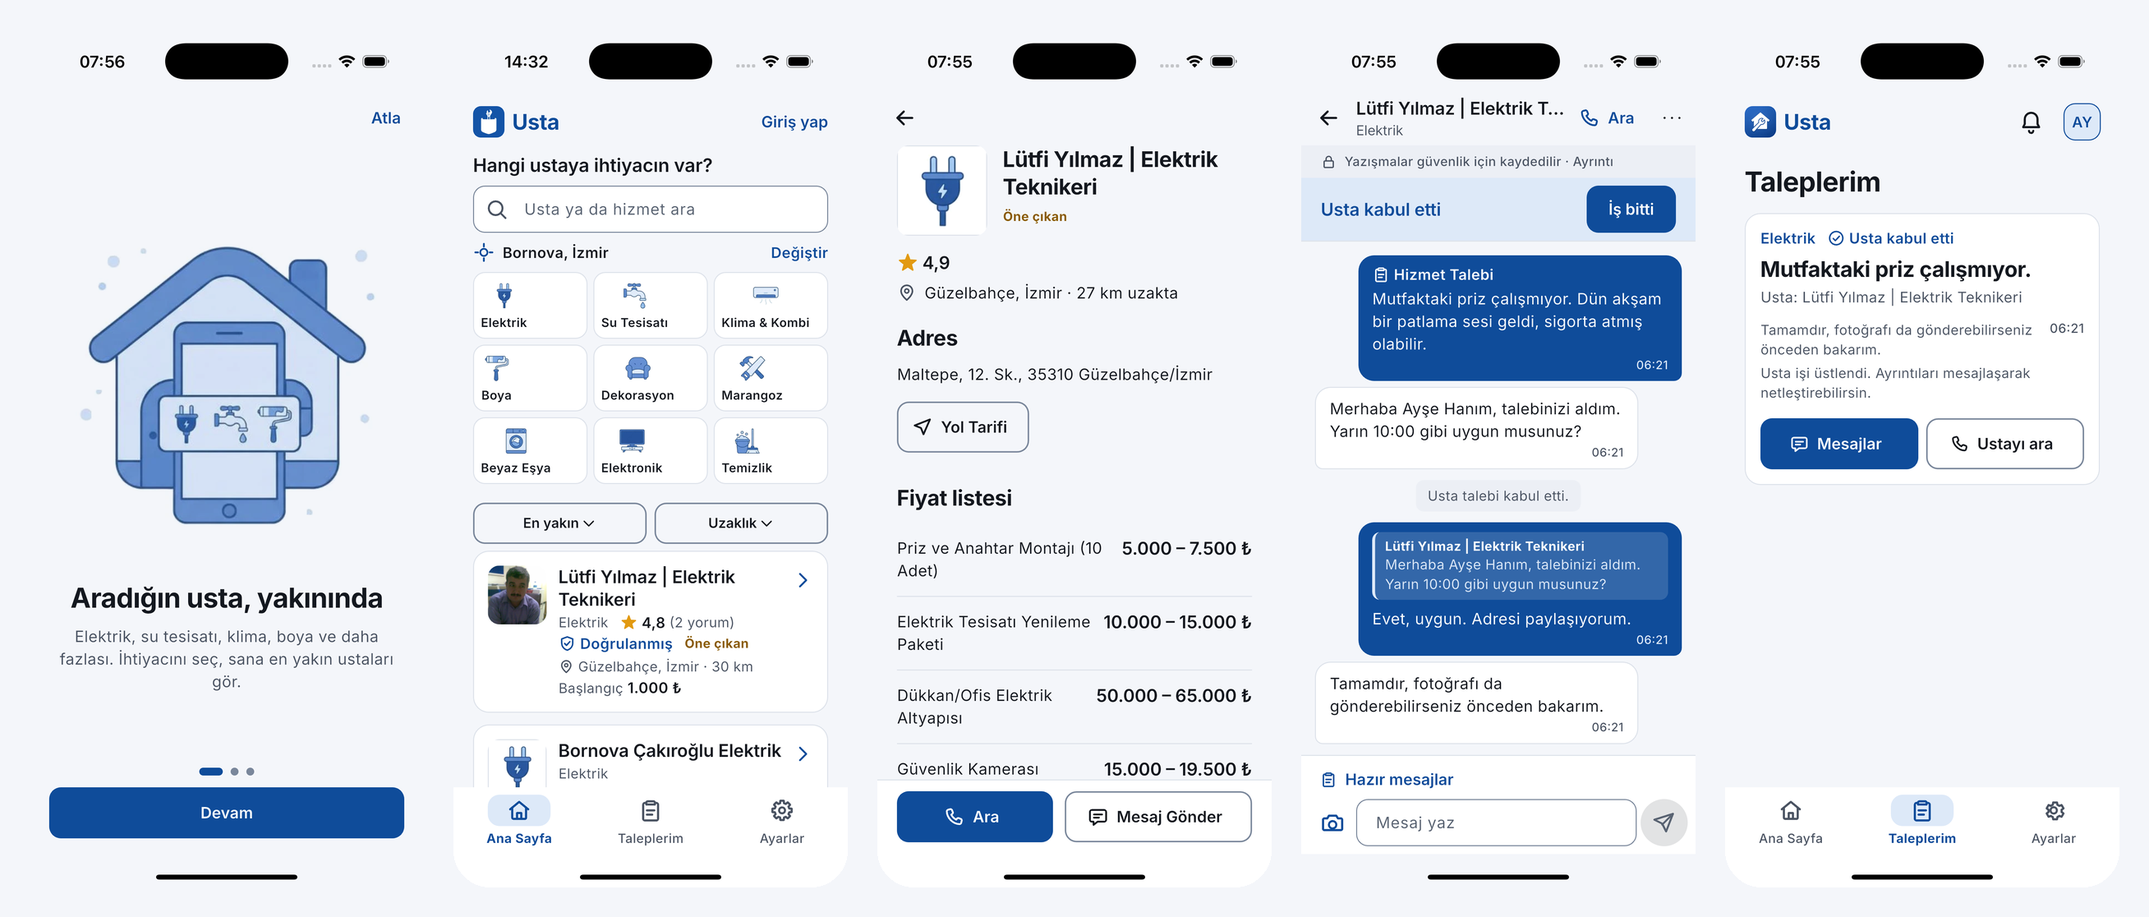
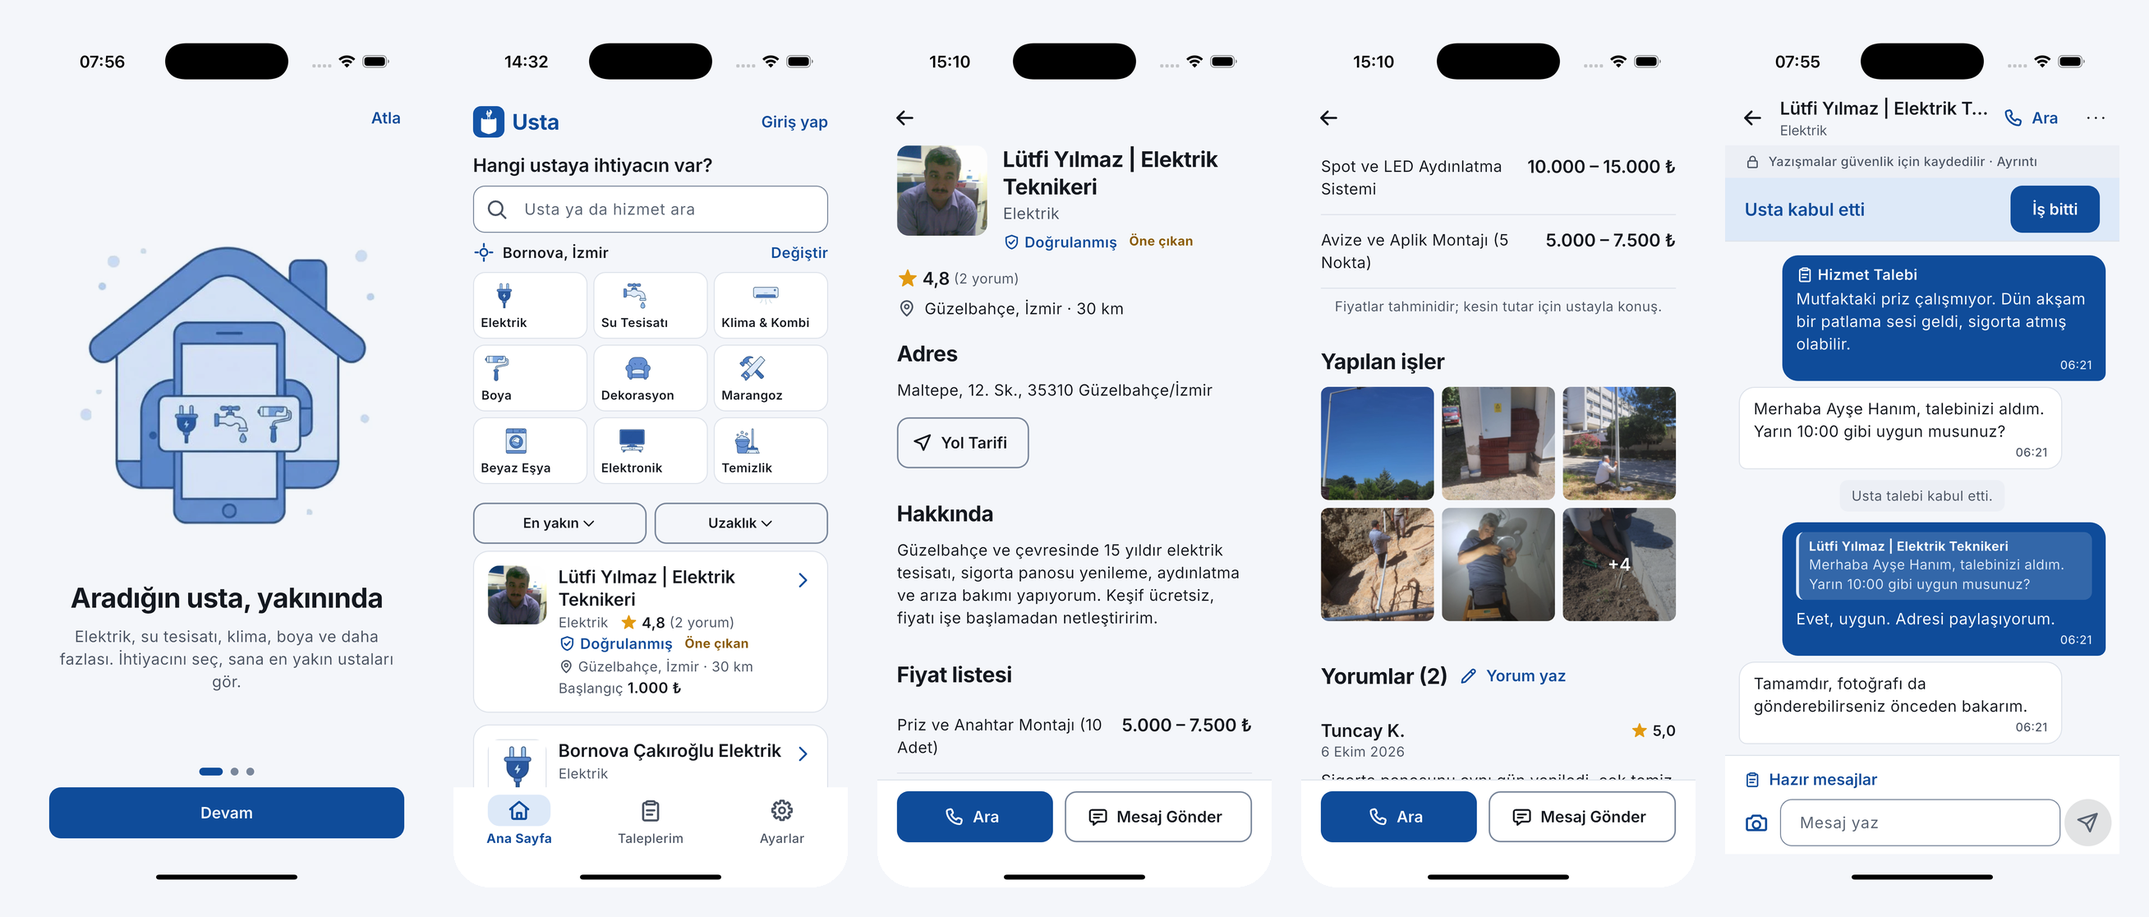
README: real Lutfi photos and work photos, no payment story, roadmap section renamed
- Refresh screenshots (real profile and work photos, dark welcome/home, usta panel and page)
- Remove payment/plan content from README, release notes and store listing
- Rename roadmap to 'Uygulama urune alinirsa eklenecekler'; drop warning emoji
- Small UI fixes: delete icon contrast in dark mode, shorter contact sheet captions

diff --git a/lib/features/provider/contact_sheet.dart b/lib/features/provider/contact_sheet.dart
@@ -86,7 +86,7 @@ class _ContactSheet extends ConsumerWidget {
                 ChoiceTile(
                   leading: UstaIcons.requests,
                   label: 'Uygulamadan yaz',
-                  caption: 'Hizmet talebi gönder, yazışma kayıt altında kalsın',
+                  caption: 'Talebin kayıt altında kalır',
                   selected: false,
                   onTap: writeInApp,
                 ),
@@ -94,7 +94,7 @@ class _ContactSheet extends ConsumerWidget {
                 ChoiceTile(
                   leading: UstaIcons.message,
                   label: 'WhatsApp’tan yaz',
-                  caption: 'WhatsApp açılır (uygulama dışında, kayıt tutulmaz)',
+                  caption: 'Uygulama dışında, kayıt tutulmaz',
                   selected: false,
                   onTap: () async {
                     navigator.pop();

diff --git a/lib/features/profile/profile_edit_screen.dart b/lib/features/profile/profile_edit_screen.dart
@@ -491,10 +491,10 @@ class _PhotoGrid extends StatelessWidget {
                               color: AppColors.scrim,
                               shape: BoxShape.circle,
                             ),
-                            child: UstaIcon(
+                            child: const UstaIcon(
                               UstaIcons.trash,
                               size: 18,
-                              color: AppColors.onPrimary,
+                              color: Color(0xFFFFFFFF),
                             ),
                           ),
                         ),

diff --git a/README.md b/README.md
@@ -24,7 +24,7 @@ Elektrik, su tesisatı, klima, boya, dekorasyon, marangoz, beyaz eşya, elektron
 
 1. [Neden Usta?](#neden-usta) · 2. [Kimin için?](#kimin-için) · 3. [Özellikler](#özellikler) · 4. [Usta hesabı](#usta-hesabı) · 5. [Ekranlar](#ekranlar)
 6. [HCI ilkeleri](#insanbilgisayar-etkileşimi-hci-ilkeleri) · 7. [Görsel tasarım dili](#görsel-tasarım-dili) · 8. [Yazılım mühendisliği ilkeleri](#yazılım-mühendisliği-ilkeleri)
-9. [Mimari](#mimari) · 10. [Güvenlik ve gizlilik](#güvenlik-ve-gizlilik) · 11. [Kalite güvencesi](#kalite-güvencesi) · 12. [Kurulum](#kurulum-ve-çalıştırma) · 13. [API](#api-özeti) · 14. [Yol haritası](#bilinen-sınırlar-ve-yol-haritası)
+9. [Mimari](#mimari) · 10. [Güvenlik ve gizlilik](#güvenlik-ve-gizlilik) · 11. [Kalite güvencesi](#kalite-güvencesi) · 12. [Kurulum](#kurulum-ve-çalıştırma) · 13. [API](#api-özeti) · 14. [Ürüne alınırsa eklenecekler](#uygulama-ürüne-alınırsa-eklenecekler)
 
 ---
 
@@ -46,7 +46,7 @@ Usta bulmak çoğu insan için hâlâ "bir tanıdığa sormak" demek. İlan site
 | Kullanıcı | İhtiyacı | Usta'nın cevabı |
 |---|---|---|
 | **Müşteri** (arıza, tadilat, temizlik) | Hızlı, güvenilir, yakın usta | Resimli hizmet seçimi, mesafeye göre sıralama, puan, fiyat listesi, adres, tek dokunuşla arama |
-| **Usta / esnaf** | Müşteri bulmak, işi takip etmek | Kendi iş paneli: gelen talepler, tek dokunuşla kabul, profil, fiyat listesi, fotoğraflar, "Öne çıkan" |
+| **Usta / esnaf** | Müşteri bulmak, işi takip etmek | Kendi iş paneli: gelen talepler, tek dokunuşla kabul, profil, fiyat listesi, fotoğraflar |
 | **50+ yaş, düşük teknoloji rahatlığı** | Büyük yazı, az adım, sade dil | Arayüz Boyutu (Normal / Büyük / Çok büyük), 3 sekme, büyük dokunma alanları |
 | **Gece / loş ortam** | Göz yormayan ekran | Açık, Koyu ya da telefon varsayılanı |
 
@@ -58,7 +58,7 @@ Usta bulmak çoğu insan için hâlâ "bir tanıdığa sormak" demek. İlan site
 
 **Mesajlaşma ve talepler** · İlk mesaj otomatik `Hizmet Talebi: …`; sağa kaydırarak yanıtla, kendi mesajını düzenle / sil, fotoğraf gönder, hazır mesajlar, "Usta kabul etti" / "İş bitti" durumları, okunmamış sayacı.
 
-**Hesap** · Sunucuda saklanan gerçek hesaplar: müşteri ya da usta olarak kayıt, e-posta veya telefonla giriş. (SMS / e-posta doğrulaması sonraki adım; bkz. [yol haritası](#bilinen-sınırlar-ve-yol-haritası).)
+**Hesap** · Sunucuda saklanan gerçek hesaplar: müşteri ya da usta olarak kayıt, e-posta veya telefonla giriş. (SMS / e-posta doğrulaması sonraki adım; bkz. [eklenecekler](#uygulama-ürüne-alınırsa-eklenecekler).)
 
 **Ayarlar** · Arayüz Boyutu, Görünüm (Açık / Koyu / Telefon varsayılanı), **Verilerimi indir**, hesabı sil, destek, rehber, güvenli iletişim, **Şikayet ve resmi başvurular** (e-Devlet Tüketici Hakem Heyeti, Ticaret Bakanlığı, ALO 175, 155), Kullanıcı Sözleşmesi, KVKK Aydınlatma Metni, Sorumluluk Reddi.
 
@@ -68,38 +68,26 @@ Usta olarak girince uygulama farklı bir yüz gösterir: müşteri araması yok,
 
 | Sekme | Ne yapar |
 |---|---|
-| **Panel** | Yeni talep / mesaj / puan özeti, yanıt bekleyenler (tek dokunuşla Kabul et), "Sayfanı tamamla" listesi, öne çıkma durumu |
+| **Panel** | Yeni talep / mesaj / puan özeti, yanıt bekleyenler (tek dokunuşla Kabul et), "Sayfanı tamamla" listesi, |
 | **Talepler** | Yeni · Devam eden · Biten gruplarında gelen kutusu, kabul / uygun değilim, sohbet, müşteriyi ara |
 | **Sayfam** | Profil fotoğrafı, iş fotoğrafları, tanıtım, hizmet bölgesi / adres, fiyat listesi, tamamlanma yüzdesi, "Müşteri gözüyle gör" |
 | **Ayarlar** | Boyut, görünüm, hesap, yasal metinler |
 
-<p align="center"><img src="docs/screenshots/usta-overview.png" alt="Usta paneli, Sayfam, Öne çık, koyu tema" width="860"></p>
-
-### Öne çıkan (ücretli yerleşim)
-
-Ustalar süreye göre aramalarda en üstte, "Öne çıkan" etiketiyle görünebilir; süre bitince normal sıraya dönerler. Plan uzadıkça günlük fiyat düşer:
-
-| Plan | Fiyat (KDV dahil) | Günlük |
-|---|---|---|
-| 1 hafta | 99 ₺ | 14,14 ₺ |
-| 1 ay | 249 ₺ | 8,30 ₺ |
-| 3 ay | 599 ₺ | 6,66 ₺ |
-
-Sunucu planları satar, çalışan promosyonun üstüne ekler ve satın alımı kaydeder (`PAYMENTS_MODE=test` iken ücret alınmaz ve uygulama bunu açıkça söyler; mağaza satın alma doğrulaması için bkz. [docs/RELEASE.md](docs/RELEASE.md)). Plan, iş ya da müşteri sayısı garantisi vermez; metinlerde de öyle yazar.
+<p align="center"><img src="docs/screenshots/usta-overview.png" alt="Usta paneli, Sayfam, koyu tema, yapılan işler" width="860"></p>
 
 ## Ekranlar
 
-| Karşılama | Ana sayfa | Usta sayfası | Sohbet |
+| Karşılama | Ana sayfa | Usta sayfası | Yapılan işler |
 |:---:|:---:|:---:|:---:|
-| <img src="docs/screenshots/welcome-choices.png" width="200"> | <img src="docs/screenshots/home.png" width="200"> | <img src="docs/screenshots/detail.png" width="200"> | <img src="docs/screenshots/chat.png" width="200"> |
+| <img src="docs/screenshots/welcome-choices.png" width="200"> | <img src="docs/screenshots/home.png" width="200"> | <img src="docs/screenshots/detail.png" width="200"> | <img src="docs/screenshots/detail-work.png" width="200"> |
 
-| Taleplerim | İletişim seçenekleri | Ayarlar | Resmi başvurular |
+| Sohbet | Taleplerim | İletişim seçenekleri | Ayarlar |
 |:---:|:---:|:---:|:---:|
-| <img src="docs/screenshots/requests.png" width="200"> | <img src="docs/screenshots/contact-options.png" width="200"> | <img src="docs/screenshots/settings.png" width="200"> | <img src="docs/screenshots/official.png" width="200"> |
+| <img src="docs/screenshots/chat.png" width="200"> | <img src="docs/screenshots/requests.png" width="200"> | <img src="docs/screenshots/contact-options.png" width="200"> | <img src="docs/screenshots/settings.png" width="200"> |
 
-| Koyu ana sayfa | Koyu sonuçlar | Usta paneli | Öne çık |
+| Koyu karşılama | Koyu ana sayfa | Usta paneli | Sayfam |
 |:---:|:---:|:---:|:---:|
-| <img src="docs/screenshots/home-dark.png" width="200"> | <img src="docs/screenshots/results-dark.png" width="200"> | <img src="docs/screenshots/usta-panel.png" width="200"> | <img src="docs/screenshots/promote.png" width="200"> |
+| <img src="docs/screenshots/welcome-dark.png" width="200"> | <img src="docs/screenshots/home-dark.png" width="200"> | <img src="docs/screenshots/usta-panel.png" width="200"> | <img src="docs/screenshots/usta-page.png" width="200"> |
 
 ## İnsan–bilgisayar etkileşimi (HCI) ilkeleri
 
@@ -114,7 +102,7 @@ Sunucu planları satar, çalışan promosyonun üstüne ekler ve satın alımı 
 | **Hata önleme ve kurtarma** (Nielsen) | Yanlış şifre, kullanılmış e-posta, konum izni yok, ağ yok: her biri ne olduğunu ve ne yapılacağını söyleyen Türkçe mesajla; ham hata ekrana basılmaz. |
 | **Sistemin durumunu göster** | İskelet yükleme kartları, okunmamış rozetleri, "Ustaya iletildi / Usta kabul etti" durum cümleleri, test modunda ücret alınmadığının açıkça yazılması. |
 | **Erişilebilirlik (WCAG AA)** | Kontrast testle doğrulanır (açık + koyu palet); `Semantics` etiketleri; sistem yazı boyutu × Usta Arayüz Boyutu birlikte ölçeklenir; 320 dp genişlikte 1,5× yazıyla taşma yok. |
-| **Dürüstlük** (karanlık desenlerden kaçınma) | Uydurma fiyat ya da sahte "doğrulandı" rozeti yok; "Öne çıkan" ücretli yerleşimdir ve öyle yazılır; yazışmaların kayıt altında olduğu sohbette hep görünür. |
+| **Dürüstlük** (karanlık desenlerden kaçınma) | Uydurma fiyat ya da sahte "doğrulandı" rozeti yok; yazışmaların kayıt altında olduğu sohbette hep görünür. |
 | **Gestalt: yakınlık ve hizalama** | Aynı bilgi aynı kartta, aynı kenar boşluğuyla; "Giriş yap" ve "Değiştir" aynı sağ kenarda biter; ayar açıklamaları tek satırdır. |
 | **Dil ve ton** | Sade, sıcak, "sen" dili; ek uyumu ve cümle düzeni gözden geçirildi; sayı ve para birimi Türkçe biçimde. |
 
@@ -131,7 +119,7 @@ Sunucu planları satar, çalışan promosyonun üstüne ekler ve satın alımı 
 
 - **Katmanlı mimari, tek yönlü veri akışı.** `UI → controller (Riverpod) → repository → data source → API`. Widget'lar ağı ya da depoyu bilmez.
 - **SOLID.** Tek sorumluluk (ekran / denetleyici / depo ayrı), bağımlılığı tersine çevirme (konum, yer adı, depolama arayüzlerle enjekte edilir), açık–kapalı (yeni hizmet = `kServices`'e bir satır).
-- **DRY ve tek doğruluk kaynağı.** Renk, boşluk, tipografi, ikon, hizmet listesi, plan listesi tek yerde.
+- **DRY ve tek doğruluk kaynağı.** Renk, boşluk, tipografi, ikon ve hizmet listesi tek yerde.
 - **Değiştirilebilir altyapı.** Sunucuda `Store<T>` arayüzü (`MemoryStore` / `MongoStore`); `DATA_SOURCE=mock|mongo` ile veritabanı olmadan da çalışır.
 - **Güvenli varsayılanlar.** Sunucu tarafı kimlik doğrulama ve yetkilendirme guard'ı, sınırlandırılmış giriş denemesi, sırlar yalnızca ortam değişkenlerinde (twelve-factor).
 - **Hata yönetimi.** Her hata `AppFailure` ile kullanıcıya anlaşılır Türkçe mesaj olur.
@@ -146,7 +134,7 @@ Sunucu planları satar, çalışan promosyonun üstüne ekler ve satın alımı 
 │ Flutter (iOS / Android)  │ ─────────────────▶ │ NestJS modüler monolit       │ ─▶ │ MongoDB Atlas   │
 │ Riverpod · go_router     │                    │ auth · accounts · providers  │    │ usta_db         │
 │ Dio · SharedPreferences  │ ◀───────────────── │ orders · conversations       │    │ (veya bellek)   │
-└──────────────────────────┘                    │ promotions · complaints …    │    └─────────────────┘
+└──────────────────────────┘                    │ complaints · privacy …       │    └─────────────────┘
                                                 └──────────────────────────────┘
 ```
 
@@ -161,15 +149,15 @@ Sunucu planları satar, çalışan promosyonun üstüne ekler ve satın alımı 
 - **Veri hakları:** **Verilerimi indir** (hesap, talep, mesaj, şikayet) ve **Hesabımı sil** (kimlik kaldırılır, kayıtlar kimliksiz saklanır).
 - **Şikayet:** Nedenli, takip numaralı şikayet; ardından resmi merciler.
 - **Sorumluluk reddi:** Platform işin yapılması, ödeme ve anlaşmazlıklarda taraf değildir.
-- ⚠ Hukuki metinler **taslaktır**; yayından önce bir avukat incelemelidir.
+- Hukuki metinler taslaktır; yayından önce bir avukat incelemelidir.
 
 ## Kalite güvencesi
 
 | Katman | Kapsam | Sonuç |
 |---|---|---|
-| Flutter birim / bileşen / duman | **111 test**: doğrulayıcılar, mesafe, hizmet eşleştirme, fiyat kuralları, modeller, oturum ve kayıt akışı, keşif, ilk ekranda iki usta, 3–4 sekme, Arayüz Boyutu, **koyu tema canlı geçişi**, usta paneli ve plan satın alma, kendi sayfa kuralları, usta kaydında konum | ✅ |
+| Flutter birim / bileşen / duman | **111 test**: doğrulayıcılar, mesafe, hizmet eşleştirme, fiyat kuralları, modeller, oturum ve kayıt akışı, keşif, ilk ekranda iki usta, 3–4 sekme, Arayüz Boyutu, **koyu tema canlı geçişi**, usta paneli, kendi sayfa kuralları, usta kaydında konum | ✅ |
 | Erişilebilirlik | Açık ve koyu paletin WCAG AA kontrast testi; 320 dp × 1,5× yazı × Büyük / Çok büyük için taşma testleri (müşteri ve usta ekranları) | ✅ |
-| Sunucu | **37 Jest testi**: hesap, giriş, kilitleme, belirteç, yetki guard'ı, sohbet, durum geçişleri, depo, promosyonlar | ✅ |
+| Sunucu | **37 Jest testi**: hesap, giriş, kilitleme, belirteç, yetki guard'ı, sohbet, durum geçişleri, depo | ✅ |
 | Gerçek veritabanı | Atlas'ta uçtan uca duman testi (kayıt, giriş, korumalı uç noktalar, liste, filtre, talep, sohbet) | ✅ |
 | Cihaz | iPhone 16 Pro simülatörü ve gerçek iPhone | ✅ |
 
@@ -199,7 +187,7 @@ flutter run --dart-define=API_BASE_URL=http://localhost:3000
 
 **Gerçek iPhone:** Mac ve telefon aynı ağdayken `--dart-define=API_BASE_URL=http://<Mac-LAN-IP>:3000`.
 
-**Derleme:** `flutter build apk --release` · `flutter build appbundle --release` · `flutter build ipa --release` (aynı `--dart-define`). Mağaza hazırlığı: [docs/RELEASE.md](docs/RELEASE.md), mağaza metinleri: [docs/store/listing-tr.md](docs/store/listing-tr.md).
+**Derleme:** `flutter build apk --release` · `flutter build appbundle --release` · `flutter build ipa --release` (aynı `--dart-define`). Yayın kontrol listesi: [docs/RELEASE.md](docs/RELEASE.md), mağaza metinleri: [docs/store/listing-tr.md](docs/store/listing-tr.md).
 
 **Veri araçları:** `npm run db:cleanup-test <önek>` test kayıtlarını siler (`@simtest.local` e-postalı hesaplar dahil); `npm run db:seed-demo -- <providerId>` bir usta sayfasını fotoğraf ve yorumlarla doldurur (fotoğraflar `server/seed-media/` içinden okunur, git'e girmez).
 
@@ -213,11 +201,10 @@ flutter run --dart-define=API_BASE_URL=http://localhost:3000
 | Yorumlar | `GET/POST /providers/:providerId/reviews` |
 | Talepler | `POST/GET /service-requests` · `PATCH /service-requests/:id/status` |
 | Sohbet | `GET /conversations/:id` · `GET/POST /conversations/:id/messages` · `POST /conversations/:id/read` · `POST /conversations/:id/attachments` · `PATCH/DELETE /messages/:id` · `GET /attachments/:id` |
-| Öne çıkma | `GET /promotions/plans` · `POST /providers/:id/promotions` |
 | Şikayet | `POST/GET /complaints` |
 | Diğer | `GET /categories` · `GET /notifications` · `GET /health` |
 
-Herkese açık okumalar (usta listesi ve detayı, yorumlar, planlar, fotoğraflar, sağlık) oturumsuz çalışır; diğer her şey geçerli oturum ister.
+Herkese açık okumalar (usta listesi ve detayı, yorumlar, fotoğraflar, sağlık) oturumsuz çalışır; diğer her şey geçerli oturum ister.
 
 ## Proje yapısı
 
@@ -229,19 +216,21 @@ lib/
   features/   auth · chat · discovery · location · notifications · orders · profile
               provider · reviews · safety · settings · shell · studio (usta paneli)
 server/src/   accounts · attachments · auth · categories · common · complaints · conversations
-              notifications · orders · privacy · promotions · providers · reviews · users
+              notifications · orders · privacy · providers · reviews · users
 assets/       services (Gemini), onboarding, brand
 docs/         screenshots, RELEASE.md, store/
 ```
 
-## Bilinen sınırlar ve yol haritası
+## Uygulama ürüne alınırsa eklenecekler
 
-- **SMS / e-posta doğrulaması yok.** Hesaplar doğrudan veritabanına kaydolur; doğrulama (ve şifre sıfırlama) sıradaki adımdır.
-- **Ödeme test modunda.** "Öne çıkan" planları çalışır ama ücret alınmaz; App Store / Google Play satın alma doğrulaması bağlanmalıdır.
-- **Anlık bildirim yok.** Sohbet ve talepler yoklamayla yenilenir (3 sn / 15 sn); FCM / APNs sonraki adımdır.
-- **Veri kalitesi.** Atlas verisinde bazı konumlar şehirle uyuşmaz, çoğu kayıtta fotoğraf ve fiyat yoktur; arayüz bunu uydurmadan gösterir.
-- **Hukuki metinler taslaktır** ve avukat incelemesi bekler.
-- Yol haritası: doğrulama ve şifre sıfırlama, anlık bildirim, mağaza satın alma doğrulaması, yorum yönetimi, App Store / Play Store yayını.
+Mevcut sürüm uçtan uca çalışır ve test edilmiştir. Ürün mağazalara çıkarken eklenmesi planlanan adımlar:
+
+- **Hesap doğrulama:** SMS ve e-posta doğrulaması, şifre sıfırlama.
+- **Anlık bildirim:** Yeni talep ve mesajlar için FCM / APNs (şimdilik yoklama ile yenileniyor).
+- **Barındırma:** HTTPS arkasında yönetilen sunucu, izleme, yedekleme ve hız sınırlama.
+- **Hukuki inceleme:** Kullanıcı Sözleşmesi, KVKK Aydınlatma Metni ve Sorumluluk Reddi metinlerinin avukat onayı.
+- **Veri zenginleştirme:** Konum ve fotoğraf eksiklerinin tamamlanması, usta doğrulama süreci.
+- **Mağaza yayını:** App Store ve Google Play imzalama, listeleme ve inceleme süreçleri.
 
 ---
 

diff --git a/docs/RELEASE.md b/docs/RELEASE.md
@@ -7,7 +7,6 @@ Usta v2.1 is feature-complete and tested. These are the things that stay *outsid
 |---|---|---|
 | 1 | **Verification + password reset** | Accounts, scrypt hashes, signed sessions and the server guard exist. Add SMS / e-mail verification and a reset flow. Set a strong `AUTH_SECRET` (required in production). |
 | 2 | **HTTPS API + hosting** | Deploy `server/` (any Node host) behind HTTPS, set `DATA_SOURCE=mongo`, `MONGODB_URI`, `DATABASE_NAME`, `NODE_ENV=production`; build the app with `--dart-define=API_BASE_URL=https://api.<your-domain>`. Rotate the Atlas password that was used during development. |
-| 3 | **Payments for "Öne çıkan"** | `server/src/promotions` sells plans in `PAYMENTS_MODE=test` (no charge). For `live`: sell the three plans as consumable in-app purchases (App Store Connect / Google Play Console, product ids `usta.promo.week|month|quarter`), send the receipt in `receipt`, and implement `verifyReceipt()` against the store server APIs. Both stores require in-app purchase for digital visibility sold inside the app. |
 | 4 | **Legal texts** | KVKK Aydınlatma Metni, Kullanıcı Sözleşmesi and Sorumluluk Reddi in `lib/features/settings/document_screen.dart` are drafts. A lawyer must review them; also publish them on a public URL (stores require a privacy-policy link). |
 | 5 | **Remove dev-only strings** | `NSLocalNetworkUsageDescription` in `ios/Runner/Info.plist` and the local-networking ATS exception are for LAN development. |
 | 6 | **Signing** | Android: create an upload key, add `android/key.properties` (`keyAlias`, `keyPassword`, `storeFile`, `storePassword`; gitignored). iOS: Distribution certificate + App Store profile for team `8YVY52TTXP`, bundle id `com.usta.usta`. |

diff --git a/docs/store/listing-tr.md b/docs/store/listing-tr.md
@@ -12,7 +12,7 @@ Usta, evindeki işi yapacak ustayı bulmanın en kolay yolu. İhtiyacına dokun,
 • Uygulama içi yazışma: fotoğraf gönder, yanıtla, hazır mesajları kullan
 • Büyük yazı seçenekleri ve koyu tema
 • Verilerini istediğin zaman indir, hesabını sil
-• Ustalar için panel: gelen talepler, profil fotoğrafı, hizmetler ve fiyat listesi, “Öne çıkan” ile üstte görünme
+• Ustalar için panel: gelen talepler, profil fotoğrafı, hizmetler ve fiyat listesi
 
 Usta bir ilan ve iletişim platformudur; iş, ödeme ve anlaşmazlıklar kullanıcılar arasındadır. Şikayet ve resmi başvuru yolları uygulamadadır.
 
